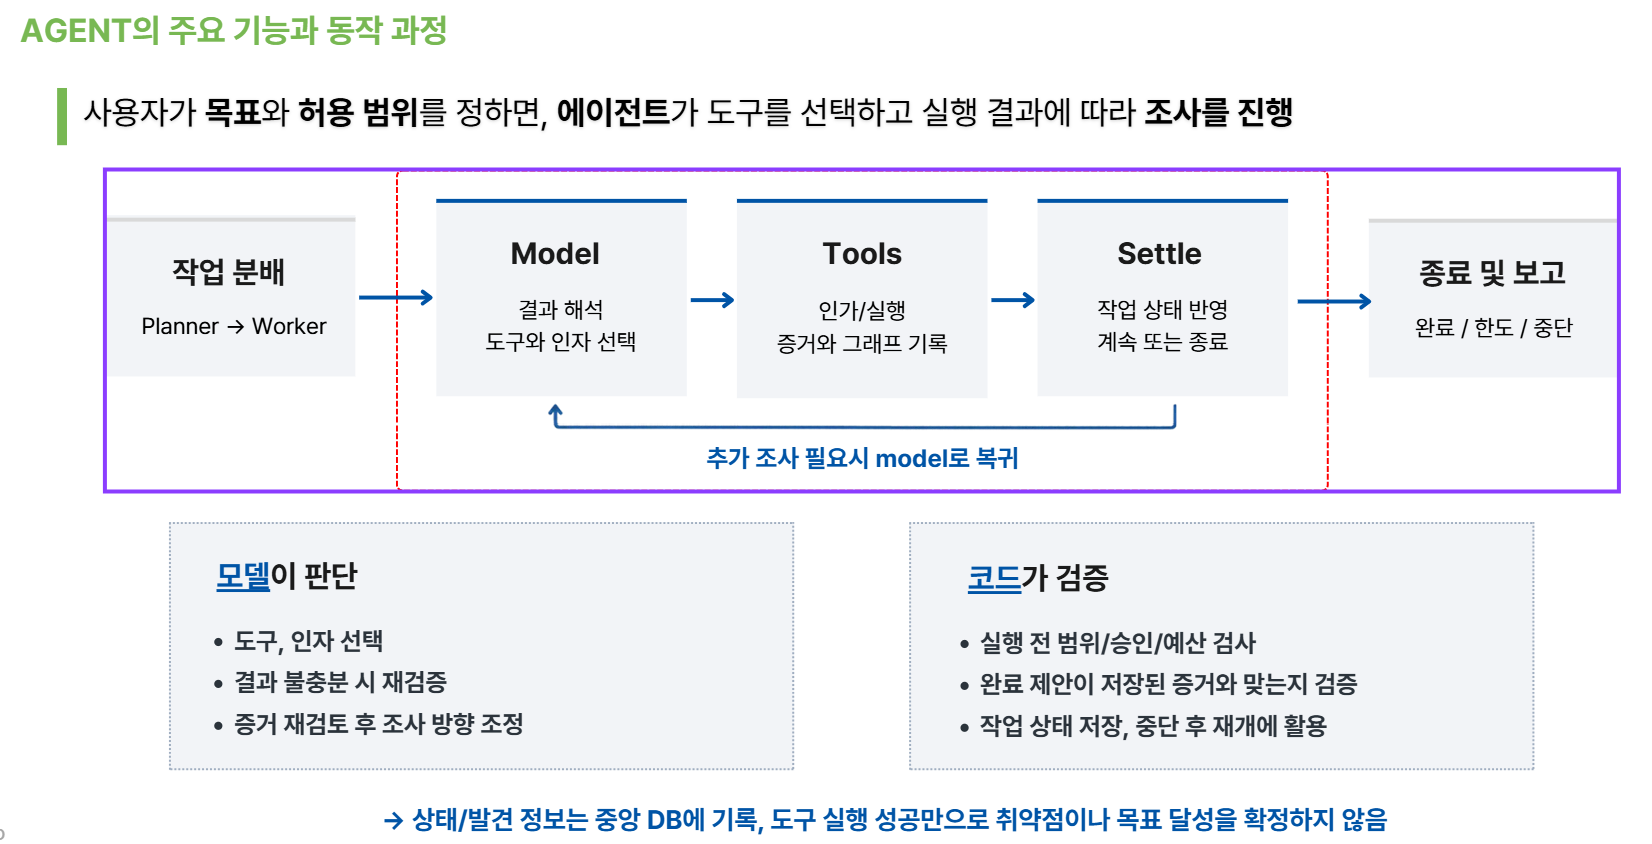
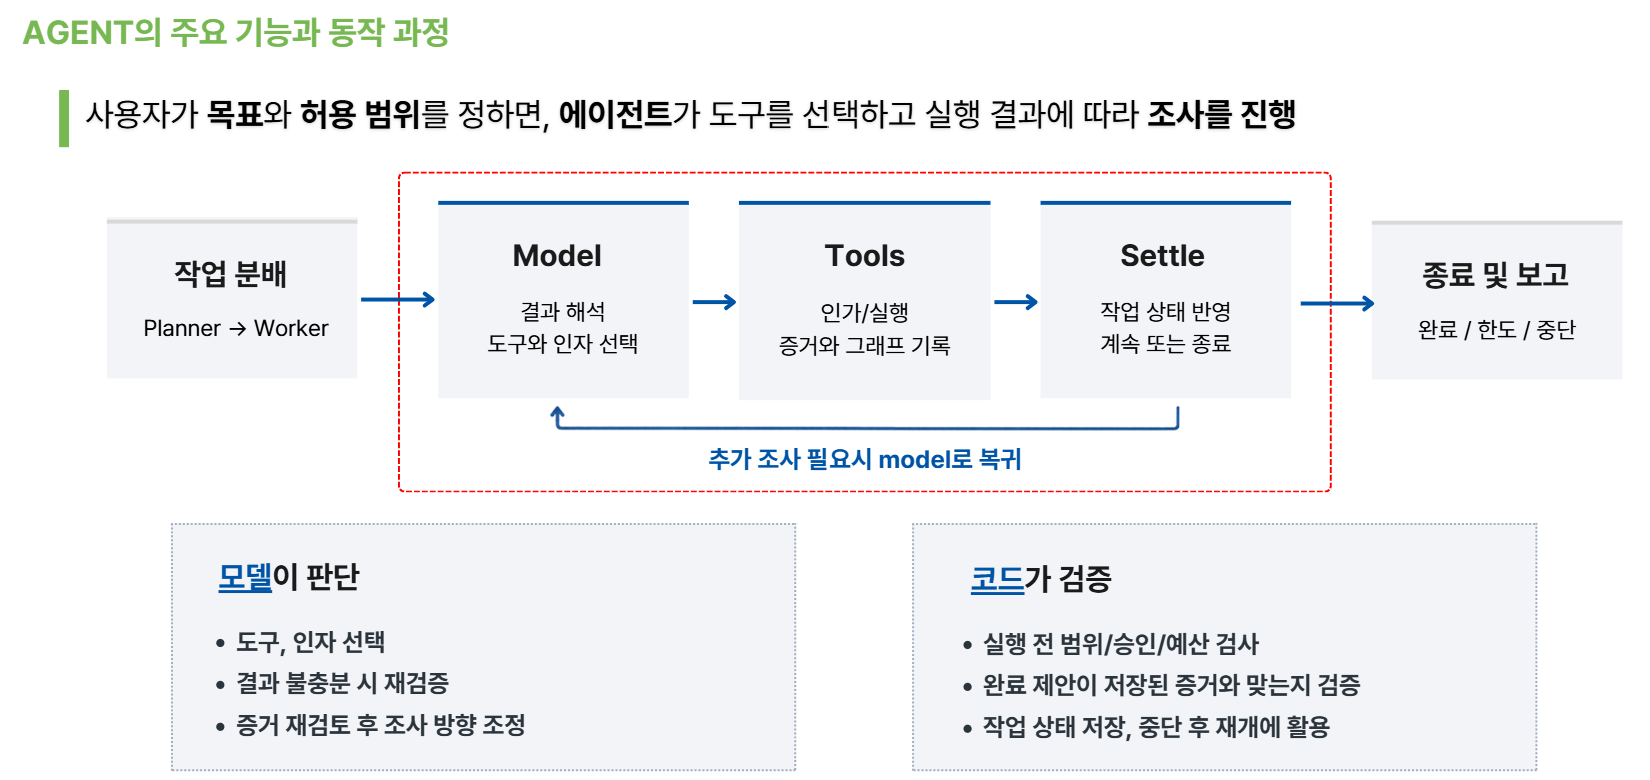
docs: 사이트 이미지 교체 및 실행 루프 선택 테두리 제거

diff --git a/website/docs/orchestration.md b/website/docs/orchestration.md
@@ -51,6 +51,6 @@
 
 작업마다 행동 수와 모델 요청 수에 상한을 둘 수 있고, 워커는 허용된 도구와 실행 한도 안에서 방법을 선택해 관측과 함께 한계나 미해결 사항을 반환한다. 이 분리로 작은 관측 작업이 전체 취약점 입증까지 떠맡지 않게 한다. 관측과 가설, Finding은 서로 다르다. 응답 헤더 존재를 확인한 Probe가 끝나도 취약점이 확정되지는 않는다.
 
-![조사 흐름 그래프](assets/graph-ui.png)
+![조사 흐름 그래프](assets/graph-ui.jpg)
 
 *조사 흐름 그래프. 가설(Planner)에서 검증 작업(Probe)과 실행 워커, 증거로 이어지는 흐름과 각 작업의 상태(승인 대기, 진행 중, 완료)를 보여준다.*
